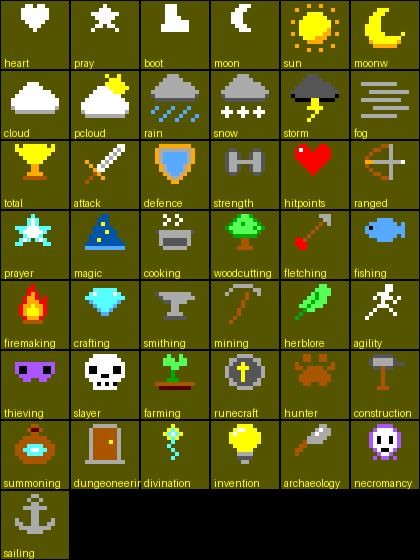
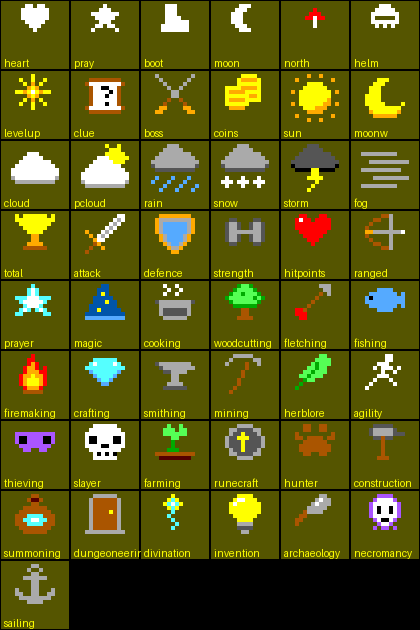
Docs for v26.11.2: README, changelog, technical notes, screenshots and store listing
README covers the Round 2 (beta) with a call for testers, the themes, the new panel modes and
chatbox messages, the Look and kill-count settings, and the OSRS Wiki in the privacy section.
TECHNICAL.md gains the two layouts, Quick View, themes and the new memory table. Screenshots and
store files are retaken on both emulators.

Claude-Session: https://claude.ai/code/session_01XhgFMoGyAitnNvNA9ZZZ4M

diff --git a/README.md b/README.md
@@ -1,14 +1,14 @@
 <h1 align="center">Gielinor HUD</h1>
 
 <p align="center">
-  <b>An Old School RuneScape-inspired watchface for the Pebble Time 2.</b><br>
+  <b>An Old School RuneScape-inspired watchface for the Pebble Time 2 and Pebble Round 2.</b><br>
   Your day as a game screen: status orbs, live weather, your real hiscores and a chatbox.
 </p>
 
 <p align="center">
   <a href="https://apps.repebble.com/b23f973d0f0141e9b99f114a"><img src="https://img.shields.io/badge/Pebble%20appstore-get%20it-ffff00?labelColor=3e3529" alt="Get it on the Pebble appstore"></a>
   <a href="https://github.com/TechnoidAlpha/gielinor-hud-pebble/releases/latest"><img src="https://img.shields.io/github/v/release/TechnoidAlpha/gielinor-hud-pebble?label=download&color=ffff00&labelColor=3e3529" alt="Latest release"></a>
-  <img src="https://img.shields.io/badge/watch-Pebble%20Time%202-ff981f?labelColor=3e3529" alt="Pebble Time 2">
+  <img src="https://img.shields.io/badge/watch-Pebble%20Time%202%20%7C%20Round%202%20(beta)-ff981f?labelColor=3e3529" alt="Pebble Time 2 and Pebble Round 2 (beta)">
   <img src="https://img.shields.io/badge/price-free-00aa00?labelColor=3e3529" alt="Free">
   <a href="LICENSE"><img src="https://img.shields.io/badge/licence-MIT-aaaaaa?labelColor=3e3529" alt="MIT licence"></a>
 </p>
@@ -19,8 +19,14 @@
 
 <p align="center">
   <img src="docs/screenshots/sunny.png" width="200" alt="Sunny day, Woodcutting hiscore">
-  <img src="docs/screenshots/storm.png" width="200" alt="Thunderstorm, Magic hiscore">
-  <img src="docs/screenshots/today.png" width="200" alt="Snow, XP gained today">
+  <img src="docs/screenshots/dark.png" width="200" alt="Dark theme">
+  <img src="docs/screenshots/kc.png" width="200" alt="Zulrah kill count">
+</p>
+
+<p align="center">
+  <img src="docs/screenshots/round-hero.png" width="230" alt="Pebble Round 2: the minimap layout">
+  <img src="docs/screenshots/round-levelup.png" width="230" alt="Pebble Round 2: a level-up moment">
+  <br><sub>On the Pebble Round 2 (beta): the minimap layout</sub>
 </p>
 
 <!-- PHOTO: replace with a real on-wrist photo of a Pebble Time 2 running the face
@@ -53,13 +59,18 @@ Top to bottom, the screen shows:
 | **Clock** | The time and date in big pixel numbers with drop shadows, in an original OSRS-style font. Follows your watch's 12/24-hour setting. |
 | **Status orbs** | Four orbs, coloured green to red like the game's: battery, heart rate, steps and sleep, or the stats you choose. [More](#status-orbs) |
 | **Weather** | Temperature, conditions, today's high and low, and the chance of rain or snow, from your phone's location or a city you choose. |
-| **Hiscores** | Your real Old School RuneScape or RuneScape 3 stats, with an XP bar to your next level. Four ways to show them. [More](#hiscores-panel) |
-| **Chatbox** | Short messages that take turns: rain on the way, steps left, XP to your next level and more. [More](#chatbox) |
+| **Hiscores** | Your real Old School RuneScape or RuneScape 3 stats, with an XP bar to your next level. Six ways to show them, including a boss kill count and a Grand Exchange price. [More](#hiscores-panel) |
+| **Chatbox** | Short messages that take turns: a rain countdown, sunset, steps left, XP to your next level, level-ups and more. [More](#chatbox) |
 
 And around it:
 
+- **Three themes:** Classic stone, Dark like the modern client, and Bright for reading in
+  sunlight.
+- **Pebble Round 2 (beta):** its own round layout in the style of the game's minimap.
+  [More](#pebble-round-2-beta)
 - **Settings with a live preview** of the face, so you see every change as you make it.
   [More](#settings)
+- **Makes room for Timeline Quick View** instead of hiding under it.
 - **No blank screen.** Come back from Timeline, Health or an app and the frame, clock and date
   are there at once.
 - **Gentle on battery.** It redraws once a minute, and your phone does all the fetching.
@@ -90,19 +101,27 @@ School in the panel and puts RuneScape 3 in the chatbox. Choose what it shows:
 | Rotate | A different skill every 1, 5, 15 or 60 minutes |
 | Closest to a level-up | The skill you're nearest to levelling |
 | XP gained today | Today's XP, plus your top skill of the day |
+| Kill count | A boss or clue scroll total of your choice, with your rank (Old School) |
+| GE price | One Grand Exchange item's price and how it moved since yesterday (prices from the OSRS Wiki) |
 
-Every mode has an XP bar to your next level. Every skill has its own icon, from Sailing to
+The skill modes have an XP bar to your next level. Every skill has its own icon, from Sailing to
 Necromancy.
+
+Two extras, each with a switch in Settings:
+
+- **Level-up moments.** When a refresh finds a new level, the panel shows it with fireworks and the
+  chatbox congratulates you, for an hour.
+- **Account helms.** A small Ironman, Hardcore or Ultimate helm beside your name.
 
 ### Chatbox
 
 Choose which of these take turns, one each minute:
 
-- Rain or snow on the way, and roughly when
-- Steps left to your daily goal
-- XP to your next level
-- Charging, while the watch is on its charger
-- Welcome to Gielinor
+- **Weather:** rain or snow on the way (a countdown when it's under two hours), the next sunrise
+  or sunset, the feels-like temperature, and wind speed and direction
+- **You:** steps left to your daily goal, and charging while the watch is on its charger
+- **Game:** XP to your next level, level-ups, and your Grand Exchange item's price
+- **Other:** Welcome to Gielinor
 
 With none chosen, the chatbox shows the date. Warnings always come first: battery at 15% or
 less, phone disconnected, and Pebble Health turned off.
@@ -117,9 +136,11 @@ preview of the face sits at the top and shows each change as you make it.
 - **Weather:** phone GPS or a typed city, Celsius or Fahrenheit, how often to refresh
 - **Orbs:** what each orb shows (battery, heart rate, steps, sleep, active minutes, distance or
   calories) and your goals
-- **Chatbox:** which messages it shows
+- **Chatbox:** which messages it shows, grouped by weather, you and the game
+- **Look:** the theme, with a preview of each
 
-The clock follows your watch's 12/24-hour setting.
+On a Pebble Round 2 the preview shows the round layout. The clock follows your watch's 12/24-hour
+setting.
 
 <table>
   <tr>
@@ -130,12 +151,38 @@ The clock follows your watch's 12/24-hour setting.
     <td align="center"><img src="docs/screenshots/settings-orbs.png" width="300" alt="Orbs tab: what each orb shows, and daily goals"><br><b>Orbs</b>: what each one shows, and your goals</td>
     <td align="center"><img src="docs/screenshots/settings-chatbox.png" width="300" alt="Chatbox tab: which messages appear"><br><b>Chatbox</b>: which messages appear</td>
   </tr>
+  <tr>
+    <td align="center"><img src="docs/screenshots/settings-kc.png" width="300" alt="Kill count picker with a search box"><br><b>Kill count</b>: pick any boss or clue</td>
+    <td align="center"><img src="docs/screenshots/settings-look.png" width="300" alt="Look tab: three themes with previews"><br><b>Look</b>: Classic, Dark or Bright</td>
+  </tr>
 </table>
+
+## Pebble Round 2 (beta)
+
+On the round screen the face gets its own layout, modelled on the game's minimap: the clock on
+top, the weather inside a minimap with its compass, two orbs either side, then the hiscores and the
+chatbox following the curve. Every setting works the same, and Quick View gets a band across the
+middle while the chatbox stays below it.
+
+It's built and tested on the Round 2 emulator, but I don't have a Round 2 to try it on. If you do,
+please [open an issue](https://github.com/TechnoidAlpha/gielinor-hud-pebble/issues) with a photo,
+good or bad.
+
+<p align="center"><img src="docs/screenshots/round-dark.png" width="230" alt="Pebble Round 2, Dark theme"> <img src="docs/screenshots/round-kc.png" width="230" alt="Pebble Round 2, kill count"></p>
 
 ## FAQ
 
 **Which watches does it work on?**
-The Pebble Time 2. It's designed for its 200×228 colour screen. Other Pebbles aren't supported.
+The Pebble Time 2 (200×228) and, in beta, the Pebble Round 2 (260×260 round). Older Pebbles
+aren't supported.
+
+**Why does the face change colour a moment after it opens?**
+The watch paints the Classic frame instantly while the face starts. With the Dark or Bright theme
+it then takes on your theme's colours, a fraction of a second later.
+
+**The GE price says the item wasn't found.**
+Type the item's name as it appears in the game, for example "Abyssal whip". Part of a name works
+too: the first item that contains it is used.
 
 **The weather has gone grey.**
 The face greys out weather that is more than 3 hours old and shows its age instead of the
@@ -162,13 +209,15 @@ Yes, please [open an issue](https://github.com/TechnoidAlpha/gielinor-hud-pebble
 
 ## Privacy
 
-The face has no server of its own and collects nothing. Your phone only talks to two public
+The face has no server of its own and collects nothing. Your phone only talks to these public
 services:
 
 - [Open-Meteo](https://open-meteo.com/) receives your approximate location (or the city you
   typed) to fetch the weather.
 - Jagex's official hiscores (`secure.runescape.com`, plus RuneMetrics at `apps.runescape.com`
   for RuneScape 3) receive the character name you entered.
+- If you use the price watch, the [OSRS Wiki's prices API](https://prices.runescape.wiki/)
+  receives the item you chose.
 
 Your settings stay on your phone. Health data never leaves the watch.
 
@@ -178,7 +227,8 @@ Everything you see on the watch was made from scratch for this face. No files fr
 RuneScape or RuneScape are in this repository or in the watchface: no sprites, icons, fonts,
 screenshots, sounds or logos.
 
-- **Icons:** all 45 (weather, orbs and every skill in both games) are original pixel art. Each
+- **Icons:** all 49 (weather, orbs, every skill in both games, helms, clue scroll, coins and the
+  rest) are original pixel art. Each
   one is a line of text in [`src/embeddedjs/main.js`](src/embeddedjs/main.js), so you can read
   every pixel.
 - **Fonts:** the pixel fonts are drawn letter by letter as text in
@@ -186,8 +236,8 @@ screenshots, sounds or logos.
 - **Pictures in this README:** screenshots of the face running in the Pebble emulator and of
   its own settings page, plus a banner and demo put together from those screenshots by
   [`tools/banner.py`](tools/banner.py) and [`tools/demo_gif.py`](tools/demo_gif.py).
-- **Layout:** the orbs, stone panels and chatbox are a tribute to the game's interface, redrawn
-  for a 200×228 watch screen.
+- **Layout:** the orbs, stone panels, minimap and chatbox are a tribute to the game's interface,
+  redrawn for a 200×228 watch screen and a 260×260 round one.
 - **Your stats:** fetched live from Jagex's public hiscores. None of their data ships with the
   face.
 
@@ -199,6 +249,7 @@ Jagex. The face is free and makes no money.
 - Made by [Technoid](https://github.com/TechnoidAlpha) in answer to
   [a request on r/pebble](https://www.reddit.com/r/pebble/comments/1xm2j8j/request/) for an OSRS watchface.
 - Weather data by [Open-Meteo.com](https://open-meteo.com/) (CC BY 4.0).
+- Grand Exchange prices from the [OSRS Wiki](https://prices.runescape.wiki/).
 
 ## Disclaimer
 

diff --git a/docs/TECHNICAL.md b/docs/TECHNICAL.md
@@ -6,7 +6,7 @@ For people reading the source. Installing the face needs none of this: see the
 ## Building
 
 ```bash
-pebble build                          # Pebble SDK 4.33+, emery
+pebble build                          # Pebble SDK 4.33+, emery and gabbro
 pebble install --phone <phone-ip>     # developer connection enabled in the Pebble app
 ```
 
@@ -30,8 +30,13 @@ hasn't seen before, which the tag check already ensures.
   `src/settings/settings.html`, the drawing code or a font (CI checks this).
 - `node tools/test_face.js` tests the face's logic (skill rotation, orbs, chatbox) without a
   watch. CI runs it.
-- The emulator scripts (`tools/emu/`) run the emery emulator on a virtual X display, so they
-  need Linux or WSL with `Xvfb` and ImageMagick.
+- The emulator scripts (`tools/emu/`) run the emulator on a virtual X display, so they need
+  Linux or WSL with `Xvfb` and ImageMagick. `PLATFORM=gabbro` in front of `emu.sh`, `shots.sh`
+  or `startframe_diff.sh` switches them to the Pebble Round 2; round screenshots are saved as
+  `round-<name>.png`.
+- `pebble emu-steps 5432`, `emu-sleep 445`, `emu-heart-rate 68` and
+  `emu-set-timeline-quick-view on|off` (each with `--emulator emery|gabbro`) fake Health data
+  and the Quick View peek on a running emulator.
 
 ## Start frame
 
@@ -55,13 +60,46 @@ For that hand-over to be invisible the two pictures must match exactly:
 - `tools/startframe_diff.sh` builds a C-only variant and a JS-held-before-restore variant,
   captures both on the emulator and fails unless they are pixel-identical.
 
+## Two layouts
+
+`main.js` draws both from the same helpers, chosen by the screen's shape (`ROUND = W === H`):
+
+- **Time 2 (emery, 200x228):** the game screen, with the clock viewport, the orb column and the
+  stone panels.
+- **Round 2 (gabbro, 260x260):** the minimap layout. The clock and date sit on top, the weather
+  inside a minimap ring (`MM_Y`, `MM_R`), two orbs either side of it (`orbSpot`; `orb(..., flip)`
+  puts the value plate on the right), then the hiscores band (`HS_Y`) and the chatbox (`CH_Y`).
+  Both bands are horizontal spans clipped to the circle (`chord`, `roundBand`), and chatbox
+  lines wrap to the width the curve allows at each line.
+
+The C start frame has a matching branch for each (`#ifdef PBL_ROUND` in `mdbl.c`, with the same
+`chord` done in integers), and `startframe_diff.sh` checks both.
+
+## Timeline Quick View
+
+The `resize` event carries no value on this SDK, but Piu shrinks the app to the part of the
+screen that's still visible. So the listener reads `app.height`: 228 → 170 on the Time 2
+emulator, a 58 px peek. The Time 2 then drops the chatbox and draws the hiscores panel at
+whatever height is left (title and XP bar). On the round screen the peek is a band across the
+middle, so the hiscores band gives way and the chatbox stays below it.
+
+## Themes
+
+`C` is the live palette. `applyTheme()` copies a theme's overrides over the Classic values
+(`BASE`) whenever settings arrive. Text in a dark well (clock, date, orb numbers) keeps fixed
+colours; text drawn straight on a panel uses the `p*` keys through `ptxt()`, so Bright can turn
+it dark and drop the shadow, which blurs dark text. The C start frame always paints Classic: C
+can't read the face's settings (JS storage and C persist are separate files), so Dark and Bright
+recolour a moment after the face opens.
+
 ## How it is drawn
 
 The whole face is one Piu `Port`. Its `onDraw` paints the panels, orbs and icons with
 `fillColor` runs and the text with `drawString`, so no per-element `Content` objects exist. A
 minute tick is just `invalidate()`. Each icon is a single string (two-digit width, then the
-rows concatenated) over a small palette, so the icons live in the mod archive rather than as
-arrays on the slot heap.
+rows concatenated) over a small palette, run-length coded: a digit 2-9 repeats the next
+character. One string per icon keeps them in the mod archive rather than as arrays on the slot
+heap, and the run-length coding halved them (5.0 KB to 2.3 KB).
 
 Text gets its shadow from drawing each string twice: once in black, offset by one art pixel,
 then in colour.
@@ -70,14 +108,23 @@ then in colour.
 
 Measured on the SDK 4.33 emulator as OS heap "Used" at app exit, out of 122568 bytes:
 
-| slot / chunk | Used | Left for PebbleOS |
-|--------------|------|-------------------|
-| 34816 / 40960 | 117052 | ~5 KB, too tight |
-| **28672 / 32768** (shipped) | 102716 | ~20 KB |
+| version, mod size | slot / chunk | Used | Left for PebbleOS |
+|-------------------|--------------|------|-------------------|
+| v26.11.1, 41 KB | 34816 / 40960 | 117052 | ~5 KB, too tight |
+| v26.11.1, 41 KB | 28672 / 32768 | 102716 | ~20 KB |
+| v26.11.2 draft, 48.6 KB | 28672 / 32768 | `fxMapArchive failed` | none: the mod couldn't map |
+| **v26.11.2, 42.7 KB** (shipped) | **30720 / 26624** | 109176 | see below |
 
-Storing the icons as arrays of row strings cost about 5 KB of bytecode, and at 34816/40960
-the mod archive failed to map (`fxMapArchive failed`). Single strings fixed both. Re-check
-on real hardware before raising either number.
+The numbers are the same on emery and gabbro, and the v26.11.2 figure is with real data for both
+games, a kill count, a GE price and every chatbox message on. Slot is the tight one: the module's
+functions and tables need about 28 KB just to start (27648 fails with "Slot allocation: failed",
+28672 starts with under 1 KB spare), so the record gives it 30720. The useful real-hardware
+limit comes from ClaudeUsageRings on a PT2: heaps plus mod hung at about 115.7 KB and worked at
+113.7 KB. Here they come to 63.5 + 42.7 = 106.2 KB. The mod went from 48.6 KB back to 42.7 KB by dropping the
+SDK's TypeScript typings include (2.4 KB of `tsconfig` modules the face never used), sharing atlas
+spots between identical glyphs (px-n's lowercase letters are its capitals) and run-length coding
+the icons, and the sample data for screenshots is now built only when asked (it cost slot in
+every release build). Re-check on real hardware before raising either number.
 
 ## Settings page
 
@@ -110,7 +157,11 @@ It runs a minute every 1.5 seconds to show what changes each minute.
 - With two games on, the game switch and the skill rotation can tick on the same clock. Each
   game's skill then moves on once per round of games (`sameTick` in `main.js`); otherwise Old
   School only ever showed the even-numbered skills.
-- `DATA` for two games is about 1.25 KB in practice and 1.6 KB at worst (every RS3 skill past
-  110), inside the watch's 2048-byte inbox.
+- `DATA` for two games is about 1.1-1.25 KB in practice (1121 bytes measured with a maxed Old
+  School account, a maxed RS3 account, a kill count, a GE price and the weather extras) and about
+  1.85 KB at worst (every RS3 skill past 110), inside the watch's 2048-byte inbox.
+- The OSRS Wiki prices API asks for a descriptive User-Agent. The phone's own browser agent
+  satisfies it; the `/mapping` list (every item, a few MB) is fetched once per item change, and
+  only the chosen id is cached.
 - Known limit: the phone works out RuneScape 3 progress with the standard XP table, so
   Invention, which uses the elite table, shows the wrong XP to its next level.

diff --git a/CHANGELOG.md b/CHANGELOG.md
@@ -2,6 +2,26 @@
 
 Versions are `YY.MM.REV`: the year, the month, and the release number within that month.
 
+## v26.11.2
+
+- Pebble Round 2 support (beta): a round layout in the style of the game's minimap, with the clock
+  on top, weather inside the minimap, two orbs either side of it, then the hiscores and chatbox
+  following the curve of the screen. Built and tested on the Round 2 emulator; reports from real
+  watches are very welcome.
+- Themes: Classic stone, Dark (the modern client's look) and Bright (easiest to read in sunlight),
+  with a live preview of each in Settings
+- Timeline Quick View: the face now makes room for the peek instead of drawing under it
+- New hiscores panel modes: a boss or clue kill count of your choice (Old School), and a Grand
+  Exchange price watch for one item (prices from the OSRS Wiki)
+- Level-up moments: when a refresh finds a new level, the panel and chatbox celebrate it for an hour
+- Account helms beside your name for Ironman, Hardcore and Ultimate accounts
+- New chatbox messages, each with its own switch: a rain countdown, the next sunrise or sunset, the
+  feels-like temperature, wind, level-ups and the GE price
+- Settings: a Look tab, the kill-count picker and GE item, chatbox switches grouped by topic, and
+  the preview shows the round layout when your watch is a Round 2
+- Smaller download: the face's bundle shrank by 6 KB, which keeps memory headroom with all the new
+  features on
+
 ## v26.11.1
 
 First public release.
